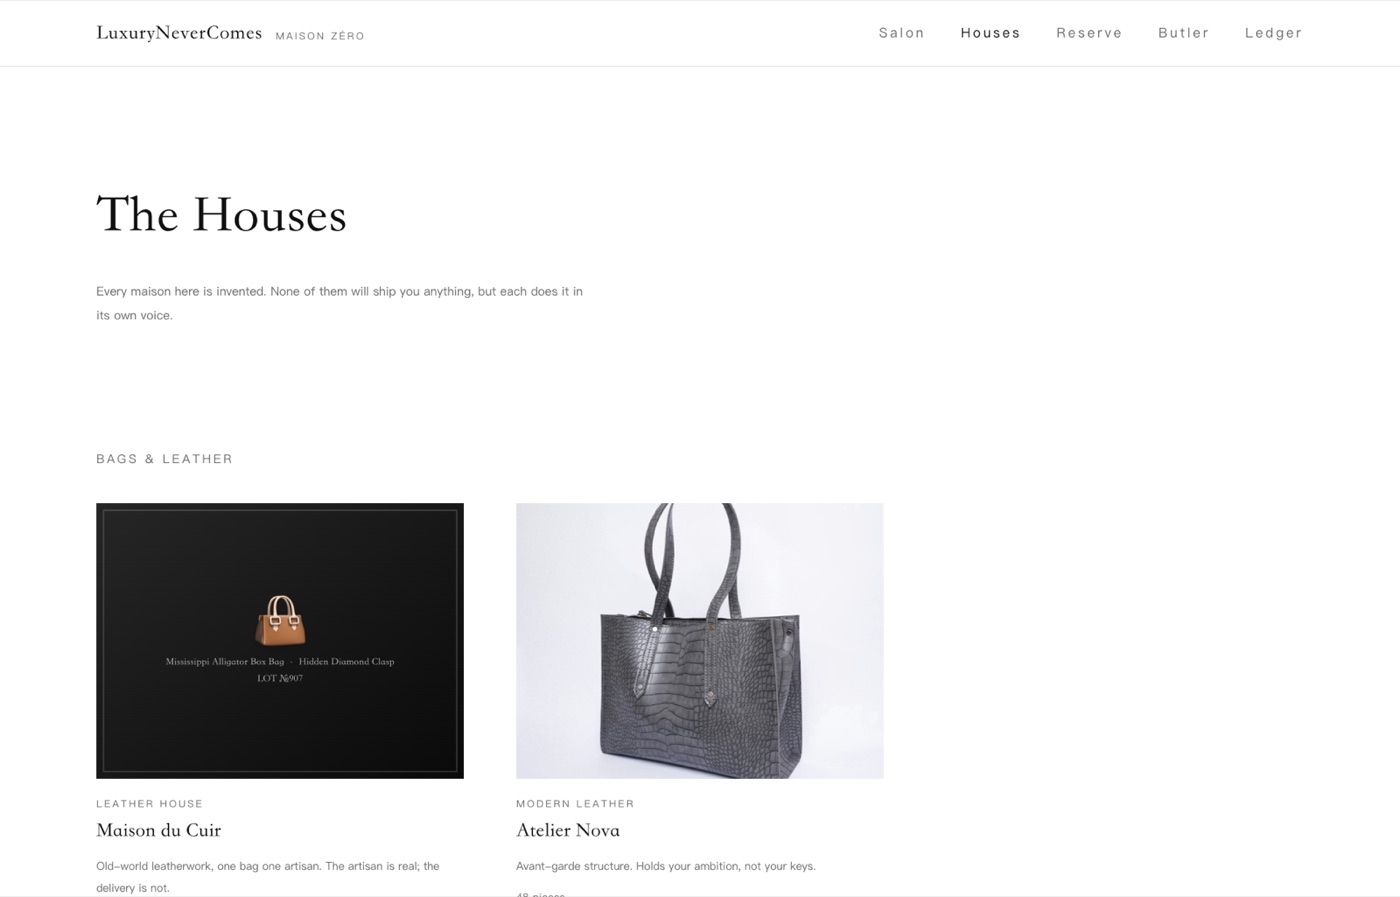
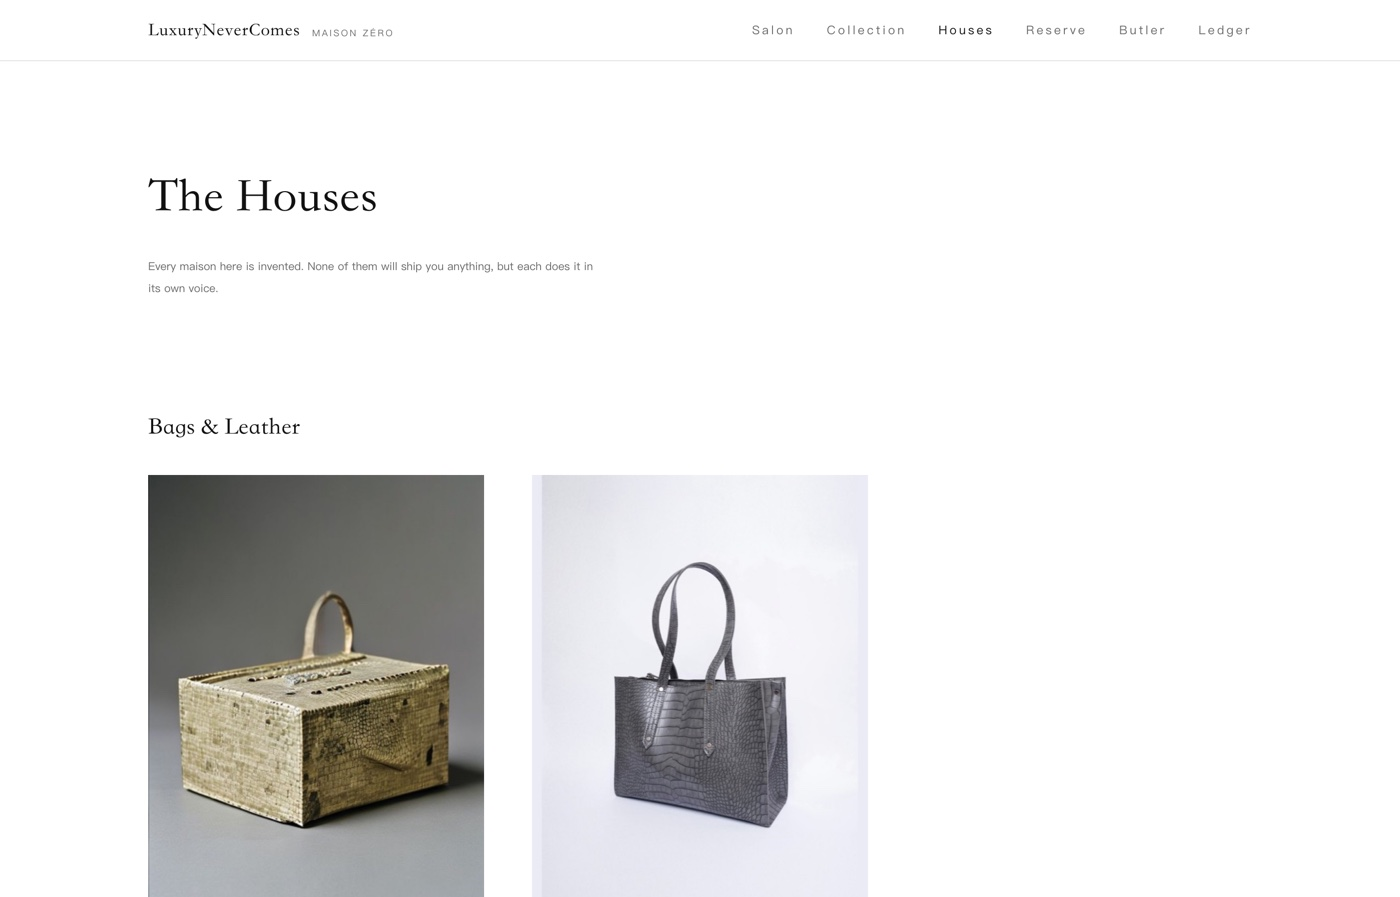
新主标语 + README 重拍演示图 + CLAUDE.md 记下开本与补边的规矩
**主标语**：`You never actually own it. You merely want it.`
戏仿百达翡丽——奢侈品行业最出名的那句广告语，本身讲的就是「你并不拥有它」。
本站只是把这个逻辑推到尽头，所以懂行的一眼接住，不懂的读到的也是一句正经话。
（先试的长版带治愈尾巴，用户嫌长；短版反而更像 Patek 的原句节奏。）

**顺带修了 hero 的对比度**：长版标语顶到三行，把文字推上了亮拱顶——
量出来白字对底 **1.00:1**，等于看不见；小字 1.66:1。大理石本身就是纯白的。
照片压到 brightness(0.62)，加一道向右的横向遮罩（右边照片保持干净，左边保证读得清），
现测 8.19:1 / 8.01:1（要求 3:1 / 4.5:1）。
注：量对比度时我先量错了——取「区域内最亮像素」取到的是**白字自己**，
必须先把文字藏掉再量底色。方法记进 DESIGN.md 了。

**README**：四张演示图全部按现状重拍（旧图是 7-15 的，早于本次所有改动），
新增 collection / product 两张——目录分章与实时计数、详情页「一个决定 + 规格表 +
底部小字编号」是这轮的主要成果，不该只用文字说。首屏标语同步。

**CLAUDE.md**：记下开本 3:4 与「主体占画幅 ≥75%」的判据（fill<75% 一律重画，不要补边——
补边是拿「被裁掉」换「变得很小」）；「真实照片优先于 AI」补丁为「仅当照片装得进 3:4」；
另记一条：改 credits.ts 别用数据拼正则（曾因 bash 吃掉引号，一次删光 22 条署名）。

diff --git a/src/lib/copy.ts b/src/lib/copy.ts
@@ -1,6 +1,13 @@
 /** Site-wide copy pool. Deadpan and healing; the green is the only sincerity. */
 
-export const SLOGAN = "Tonight, money is no object. We don't take any."
+/**
+ * 主标语。戏仿的是奢侈品行业最出名的那一句——百达翡丽的
+ * 「You never actually own a Patek Philippe. You merely look after it for the next generation.」
+ * 那句广告语本身讲的就是**你并不拥有它**；本站不过是把这个逻辑推到了尽头。
+ * 所以懂行的人一眼就接住了梗，不懂的人读到的也是一句正经的、温柔的话。
+ * 落点在治愈那一侧（wanting is free），不落在笑点上——这是本店的规矩。
+ */
+export const SLOGAN = 'You never actually own it. You merely want it.'
 export const SLOGAN_EN = 'Finally affordable. Forever undelivered.'
 export const SUB_SLOGAN = 'No queue. No quota. No proof of funds. All equal here: everything ¥0.00, nothing ships.'
 

diff --git a/src/pages/Home.tsx b/src/pages/Home.tsx
@@ -187,12 +187,17 @@ export default function Home() {
       {/* Cinematic hero: an empty grand gallery, the showroom for a store that ships nothing.
           The photograph IS the design; headline and CTA overlaid so the fold communicates. */}
       <header className="relative h-[92vh] min-h-[560px] w-full overflow-hidden bg-black">
+        {/* 大理石本身是**纯白**的（量过：字底下最亮处 rgb(255,255,255)，白字对它 1.00:1，
+            也就是压根看不见）。标语换成三行之后文字上移到亮拱顶，问题才暴露出来。
+            所以先把照片压暗，再叠两道遮罩——对比度是硬红线，不是打光偏好。 */}
         <img
           src="/img/ed-hero.jpg"
           alt="An empty baroque gallery, checkered marble receding to a distant door"
-          className="absolute inset-0 h-full w-full object-cover [filter:grayscale(0.5)_contrast(1.05)_brightness(0.94)]"
+          className="absolute inset-0 h-full w-full object-cover [filter:grayscale(0.6)_contrast(1.05)_brightness(0.62)]"
         />
-        <div className="absolute inset-0 bg-gradient-to-t from-black/85 via-black/30 to-black/15" />
+        <div className="absolute inset-0 bg-gradient-to-t from-black/85 via-black/40 to-black/25" />
+        {/* 文字靠左，就在左边再压一道横向遮罩：右边的照片保持干净，左边保证读得清 */}
+        <div className="absolute inset-0 bg-gradient-to-r from-black/65 via-black/25 to-transparent" />
         <div className="absolute inset-x-0 bottom-0">
           <div className="mx-auto max-w-6xl px-6 pb-14 lg:pb-20">
             <p className="tracking-maison text-[10px] text-white/60">Maison Zéro</p>

diff --git a/README.md b/README.md
@@ -2,7 +2,7 @@
 
 # LuxuryNeverComes
 
-### Tonight, money is no object. We don't take any.
+### You never actually own it. You merely want it.
 
 *Finally affordable. Forever undelivered.*
 
@@ -14,6 +14,10 @@ A healing storefront for everything you can't afford. Subscribe to crocodile bag
 hypercars, superyachts, private islands, ten-thousand-GPU clusters. Pay a solemn **¥0.00**, and
 nothing ever ships. The dopamine lives in the wanting, not the having, and for luxury that logic
 holds best of all. Every order's price is quietly banked in your **Downpayment Ledger**.
+
+The headline is Patek Philippe's, finished honestly. Theirs runs *"You never actually own a Patek
+Philippe. You merely look after it for the next generation."* The most famous sentence in luxury is
+already about not owning the thing; this shop is only that sentence taken the rest of the way.
 
 Sister site: [ParcelNeverComes](https://github.com/coindef/parcelnevercomes) (everyday goods).
 In the tradition of dopamine sites like [FoodNeverComes](https://foodnevercomes.com).
@@ -60,6 +64,8 @@ In the tradition of dopamine sites like [FoodNeverComes](https://foodnevercomes.
 
 ![The Houses](docs/houses.jpg)
 
+*The Houses: twenty-two invented maisons, each with a name, a temperament and a one-line history.*
+
 </div>
 
 ## The catalogue
@@ -77,6 +83,20 @@ real estate, art, cellar, couture) there is new-money luxury too:
 
 Pieces without a real, logo-free photograph fall back to an **auction-catalogue velvet plaque** — even
 the placeholder has poise.
+
+<div align="center">
+
+![The Collection](docs/collection.jpg)
+
+*The catalogue runs in chapters, dearest first, every filter value carrying a live count. Pieces
+awaiting photography show a catalogue plaque rather than a gap.*
+
+![A product page](docs/product.jpg)
+
+*One decision, then the numbers. Each size carries its own availability; the reference number sits
+small and unexplained at the foot of the page, where Cartier puts it.*
+
+</div>
 
 ## Shopping, simulated
 

diff --git a/CLAUDE.md b/CLAUDE.md
@@ -57,6 +57,19 @@ npm run lint       # oxlint
   只做整体视角**不做微距**（把细节写成主语，模型会丢掉商品本体：包扣微距画出一枚钻戒）。
   真人拍的照片（Unsplash / CC BY，见 `scripts/ai-sourced.json` 之外的 id）**不许被 AI 图覆盖**；
   商品本身是「一个人」的（管家/教练/主厨）一律不生成，交给展签——画出来必然是张人脸，是硬否决
+- **开本 3:4 是硬约束，「主体占画幅 ≥75%」也是**：全站每个藏品图框都是 `aspect-[3/4]`，
+  生成图原生 525×700，所以零裁切。早期那批真实照片是横构图（900×506 等），塞进 3:4 会被裁掉大半
+  （一顶冠冕只剩中间 20% 的宽度），补边又会把主体补得很小——
+  **补边是拿「被裁掉」换「变得很小」，两头都不讨好**：900×506 补成 3:4，照片只占画幅 42%，
+  而原生 3:4 的生成图主体能占 44%+。同一排格子里主体差 2.2 倍，在整齐的网格里就是「比例不对」。
+  判据：`原比例>0.75 时 fill=0.75/原比例`，**fill < 75% 的一律重画，不要补边**
+  （`npm run images:aspect` 只伺候 fill ≥ 75% 的，那种补边看不出来）。
+- **「真实照片优先于 AI」这条要打个补丁**（2026-07-16 用户拍板）：只在照片**装得进 3:4** 时成立。
+  一张填不满画幅 42% 的横构图，不如一张为 3:4 构的生成图——已按此重画 28 张，
+  署名随照片一起删（CC BY / CC BY-SA 的义务跟着照片走，不跟着商品）。
+  改 credits.ts 时**别用数据拼正则**，按字面量匹配 id；曾经用 `node -e '...'` 内联 JS，
+  单引号被 bash 吃掉、`${id}` 变成空的 shell 变量，正则退化成「匹配任意 productId 行」，
+  一次删光了 22 条署名（含仍在使用的 CC BY 图）。
 - **图片美术方向（拍卖图录，不是 eBay 挂牌）**——图片也是设计系统的一部分，不是填空：
   背景只能中性（无缝白/灰/炭/黑/石材/木），**材质本色保留**（皮革棕、金属金、翡翠绿都对），
   **但禁止彩色背景布**（蜜桃粉/薄荷绿/电光蓝会和黑白体系打架，65 张各带一个色 = 集市而非殿堂）；

diff --git a/DESIGN.md b/DESIGN.md
@@ -135,6 +135,16 @@
 
 ## 文案总表
 
+> **主标语（2026-07-16 换）**：`You never actually own it. You merely want it.`
+> 戏仿百达翡丽那句——奢侈品行业最出名的广告语，而它本身讲的就是**你并不拥有它**
+> （「You never actually own a Patek Philippe. You merely look after it for the next generation.」）。
+> 本站不过是把这个逻辑推到尽头，所以懂行的一眼接住梗，不懂的读到的也是一句正经话。
+> 先试过带治愈尾巴的长版（「…and here the wanting is free」），三行太长，
+> 且**把文字顶到了 hero 亮拱顶上**：量下来白字对底 1.00:1（等于看不见）。
+> 短版回到两行、落在暗地板上；同时把照片压到 brightness(0.62) 并加一道向右的横向遮罩，
+> 现测 8.19:1 / 8.01:1（要求 3:1 / 4.5:1）。
+> **量对比度时别取「区域内最亮像素」——那取到的是白字本身**，要先把文字藏掉再量底色。
+
 | 位置 | 文案 |
 |---|---|
 | 开屏弹窗 · 黑卡开卡仪式（仅首次访问，替代新人红包弹窗） | 尊敬的贵宾：您的黑卡已激活。额度：无上限。有效期：永久。适用范围：本店。反正结账时也用不上。 |